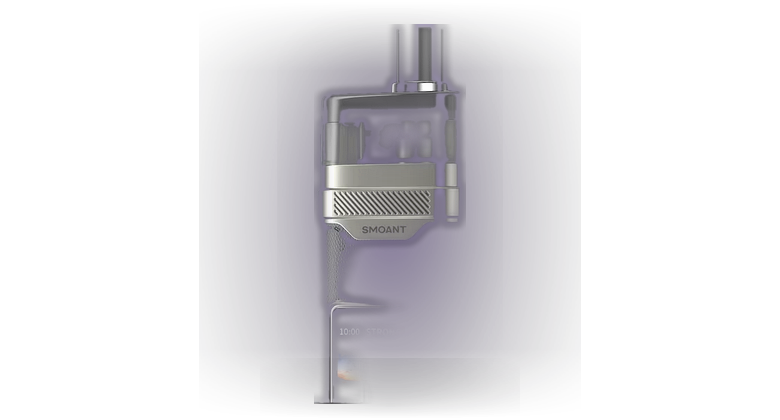
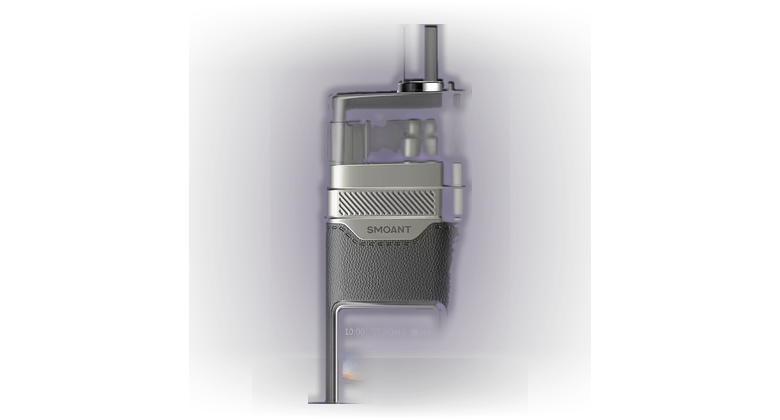
Fix buggy product images: PASITO 3 colors (clean stencil), XROS MINI Fresh (remove white background through pod), HERO 5 Gradient (add per-color Fizzy images)

Changed region(s): [[0.4, 0.0619, 0.6154, 0.9595]]

diff --git a/miniapp/products.js b/miniapp/products.js
@@ -312,6 +312,7 @@ const COLOR_PHOTOS = {
   dev16: {"Arctic Blue":"img/c/dev16__arctic-blue.png", "Jungle Green":"img/c/dev16__jungle-green.png", "Midnight Dark":"img/c/dev16__midnight-dark.png", "Polar Silver":"img/c/dev16__polar-silver.png", "Purple Bloom":"img/c/dev16__purple-bloom.png", "Sunset Red":"img/c/dev16__sunset-red.png"},
   dev17: {"Baby Blue":"img/c/dev17__baby-blue.png", "Dark Indigo":"img/c/dev17__dark-indigo.png", "Matte Silver":"img/c/dev17__matte-silver.png", "Spring Green":"img/c/dev17__spring-green.png", "Space Gray":"img/c/dev17__space-gray.png"},
   dev18: {"Aqua":"img/c/dev18__aqua.png", "Black":"img/c/dev18__black.png", "Blue":"img/c/dev18__blue.png", "Grey":"img/c/dev18__grey.png", "Lavender":"img/c/dev18__lavender.png", "Sakura":"img/c/dev18__sakura.png"},
+  dev19: {"Fizzy Black":"img/c/dev19__fizzy-black.png", "Fizzy Purple":"img/c/dev19__fizzy-purple.png", "Fizzy Blue":"img/c/dev19__fizzy-blue.png", "Fizzy Red":"img/c/dev19__fizzy-red.png"},
   dev20: {"Ocean Blue":"img/c/dev20__ocean-blue.png", "Olive Green":"img/c/dev20__olive-green.png", "Moonlight Silver":"img/c/dev20__moonlight-silver.png", "Fizzy Peach":"img/c/dev20__fizzy-peach.png", "Metallic Purple":"img/c/dev20__metallic-purple.png", "Misty Blue":"img/c/dev20__misty-blue.png"},
   dev21: {"Blue Azure":"img/c/dev21__blue-azure.png", "Blue Nuit":"img/c/dev21__blue-nuit.png", "Camouflage Green":"img/c/dev21__camouflage-green.png", "Classical Red":"img/c/dev21__classical-red.png", "Matte Black":"img/c/dev21__matte-black.png", "Pepper White":"img/c/dev21__pepper-white.png", "Rococo Purple":"img/c/dev21__rococo-purple.png", "Space Gray":"img/c/dev21__space-gray.png"},
 };

diff --git a/miniapp/index.html b/miniapp/index.html
@@ -5,7 +5,7 @@
 <meta name="viewport" content="width=device-width, initial-scale=1, maximum-scale=1, user-scalable=no">
 <title>VapeOasis — мини-приложение</title>
 <script src="https://telegram.org/js/telegram-web-app.js"></script>
-<link rel="stylesheet" href="style.css?v=20261011d">
+<link rel="stylesheet" href="style.css?v=20261011e">
 </head>
 <body>
 <div id="fx"></div>
@@ -82,7 +82,7 @@
 
 <div class="sheet" id="sheet"><div class="in" id="sheetIn"></div></div>
 
-<script src="products.js?v=20261011d"></script>
-<script src="app.js?v=20261011d"></script>
+<script src="products.js?v=20261011e"></script>
+<script src="app.js?v=20261011e"></script>
 </body>
 </html>

diff --git a/miniapp/app.js b/miniapp/app.js
@@ -20,7 +20,7 @@ let discountPick = localStorage.getItem("vo_disc") || null; // жижа, на к
 
 const $ = s=>document.querySelector(s);
 const money = n=>n+"₽";
-const IMG_VER = "20261011d";
+const IMG_VER = "20261011e";
 const imgv = u => u ? (u.indexOf("?")>=0 ? u : u+"?v="+IMG_VER) : u;
 const byId = id=>PRODUCTS.find(p=>p.id===id);
 const catEmoji = c=>({liquids:"🧪",pods:"🔌",disposable:"💨",cartridges:"♻",snus:"📦"}[c]||"•");
